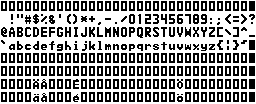
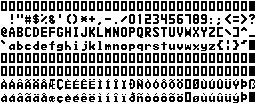
Update to newer bitmap font from gameutils.js

diff --git a/src/monospacebitmapfont.js b/src/monospacebitmapfont.js
@@ -1,7 +1,7 @@
 'use strict';
 
 /**
- * Monospace bitmap font that uses a simple ASCII grid sprite sheet.
+ * Bitmap font that uses a simple ISO-8859-1 monospace grid sprite sheet.
  * @param {Object} options Constructor options.
  * @constructor
  */
@@ -11,7 +11,9 @@ var MonospaceBitmapFont = function(options) {
         characterHeight: 6,
         characterWidth: 4,
         charactersPerRow: undefined,
-        color: undefined
+        color: undefined,
+        closerKerningCharacters: [], // list of characters to kern closer when in pairs. for example: ['i', 'l']
+        kerningAmount: 1
     };
     objectUtil.initWithDefaults(this, defaults, options);
     if (this.color !== undefined) {
@@ -53,6 +55,21 @@ MonospaceBitmapFont.prototype.drawText = function(ctx, string, x, y) {
     ctx.save();
     ctx.translate(x, y);
     var drawnWidth = string.length * this.characterWidth;
+    var kerningActive = this.closerKerningCharacters.length > 0 && this.kerningAmount != 0;
+    var prevCharacterNarrow = false;
+    if (kerningActive) {
+        for (var i = 0; i < string.length; ++i) {
+            if (this.closerKerningCharacters.indexOf(string[i]) >= 0) {
+                if (prevCharacterNarrow) {
+                    drawnWidth -= this.kerningAmount;
+                }
+                prevCharacterNarrow = true;
+            } else {
+                prevCharacterNarrow = false;
+            }
+        }
+    }
+
     if (ctx.textAlign == 'center') {
         ctx.translate(-Math.floor(drawnWidth * 0.5), 0);
     } else if (ctx.textAlign == 'right') {
@@ -60,7 +77,17 @@ MonospaceBitmapFont.prototype.drawText = function(ctx, string, x, y) {
     }
     for (var i = 0; i < string.length; ++i) {
         this.drawCharacter(ctx, string[i]);
-        ctx.translate(this.characterWidth, 0);
+        if (kerningActive) {        
+            if (this.closerKerningCharacters.indexOf(string[i]) >= 0 && i + 1 < string.length &&
+                this.closerKerningCharacters.indexOf(string[i + 1]) >= 0) {
+                ctx.translate(this.characterWidth - this.kerningAmount, 0);
+            } else {
+                ctx.translate(this.characterWidth, 0);
+            }
+            
+        } else {
+            ctx.translate(this.characterWidth, 0);
+        }
     }
     ctx.restore();
 };
